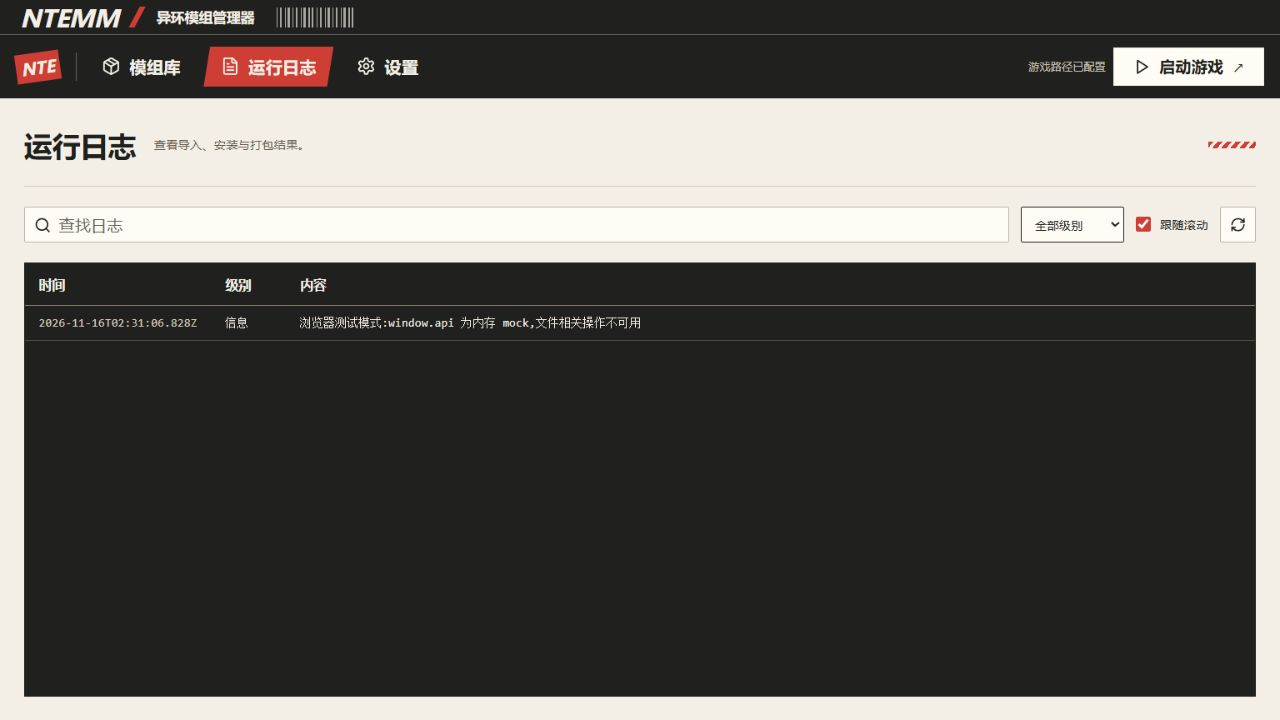
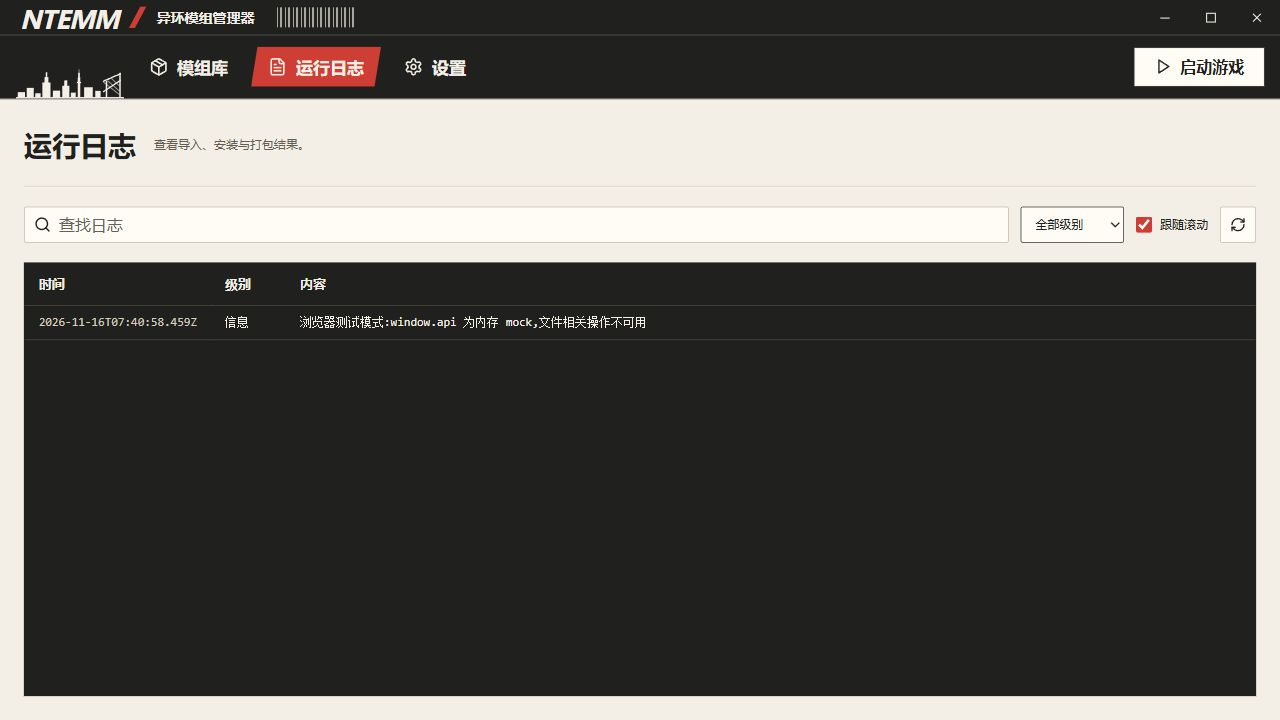
style: 清除全部红色斜纹装饰

diff --git a/app/src/renderer/src/index.css b/app/src/renderer/src/index.css
@@ -267,13 +267,6 @@ input[type='checkbox'] {
 .global-nav-item:not(.is-active):hover {
   background: #393832;
 }
-.hazard-mark {
-  display: inline-block;
-  height: 7px;
-  width: 48px;
-  flex-shrink: 0;
-  background: repeating-linear-gradient(130deg, var(--vermilion) 0 4px, transparent 4px 7px);
-}
 .launch-button {
   margin-left: auto;
   display: flex;
@@ -984,9 +977,6 @@ select {
   margin: 0;
   font-size: 12px;
   color: #655c50;
-}
-.workspace-page-heading .hazard-mark {
-  margin-left: auto;
 }
 .settings-content {
   flex: 1;

diff --git a/app/src/renderer/src/components/settings-view.tsx b/app/src/renderer/src/components/settings-view.tsx
@@ -149,7 +149,6 @@ export default function SettingsView({ config, onSaved, onDirtyChange, onCancel 
           <h1>
             {section === 'paths' ? '路径设置' : section === 'preferences' ? '操作偏好' : '高级设置'}
           </h1>
-          <span className="hazard-mark" aria-hidden />
         </div>
         <div className="settings-content">
           {section === 'paths' && (

diff --git a/app/src/renderer/src/components/log-view.tsx b/app/src/renderer/src/components/log-view.tsx
@@ -62,7 +62,6 @@ function LogView() {
       <div className="workspace-page-heading">
         <h1>运行日志</h1>
         <p>查看导入、安装与打包结果。</p>
-        <span className="hazard-mark" aria-hidden />
       </div>
       <div className="logs-toolbar">
         <label className="library-search">

diff --git a/docs/design/ui-redesign-2026-11-16/implementation/README.md b/docs/design/ui-redesign-2026-11-16/implementation/README.md
@@ -68,7 +68,7 @@
 
 按标注移除分组标题旁的「同组互斥」标签、详情内的互斥说明条，以及文件列表下方的重命名提示；同时移除「启动游戏」右侧小箭头，清理专用样式。同组互斥安装及双击文件重命名功能保留。内置浏览器确认删除项不再出现，控制台未发现错误或警告，类型检查通过。
 
-进一步移除「角色分类」「模组详情」及各模组分组标题旁的红色斜纹，并清理对应专用样式。内置浏览器确认这三处区域的斜纹数量均为零，类型检查通过。
+界面中的红色斜纹已全部移除，包括主界面、运行日志和三个设置页面；相关标记节点与专用样式一并清理。内置浏览器逐页确认斜纹节点数量为零，类型检查通过。
 
 ![精简后的主界面](./main-clean.jpg)
 
